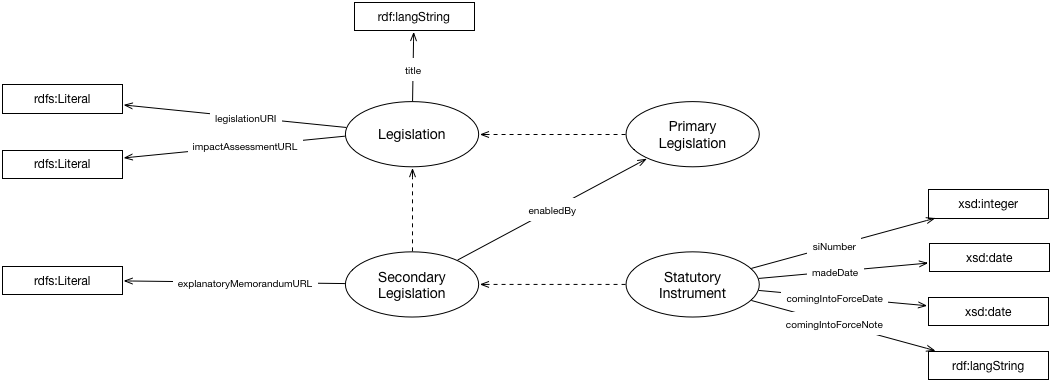
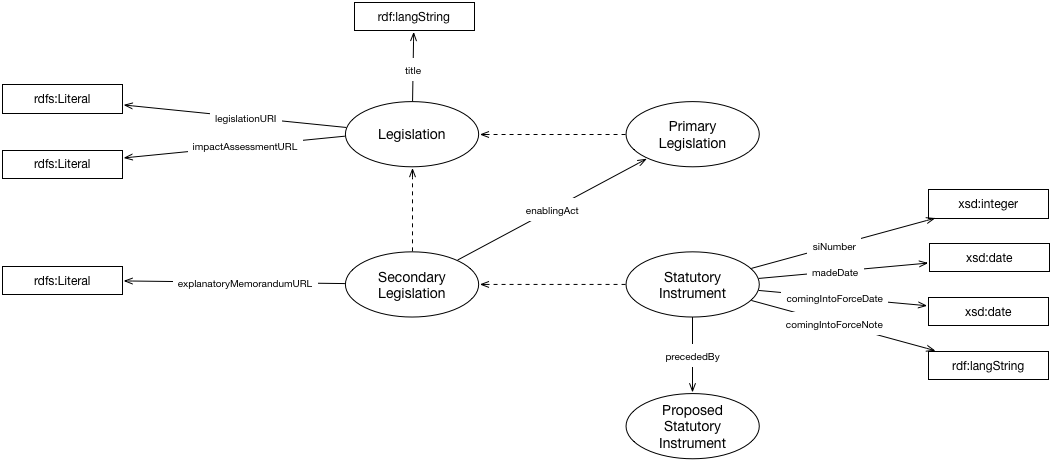
added proposed SIs

diff --git a/legislation/legislation-ontology.html b/legislation/legislation-ontology.html
@@ -5,9 +5,6 @@
 
 
 
-
-	
-	
 	
 
 		<link href="https://ukparliament.github.io/ontologies/assets/css.css" rel="stylesheet" type="text/css" />
@@ -43,9 +40,6 @@
 
 
 
-
-
-
-<div id="classes"><h2>Classes</h2><ul class="hlist"><li><a href="#d4e198" title="http://parliament.uk/ontologies/legislation/Legislation">Legislation</a></li><li><a href="#d4e211" title="http://parliament.uk/ontologies/legislation/PrimaryLegislation">PrimaryLegislation</a></li><li><a href="#d4e224" title="http://parliament.uk/ontologies/legislation/SecondaryLegislation">SecondaryLegislation</a></li><li><a href="#d4e238" title="http://parliament.uk/ontologies/legislation/StatutoryInstrument">StatutoryInstrument</a></li></ul><div id="d4e198" class="entity"><a name="http://parliament.uk/ontologies/legislation/Legislation"></a><h3>Legislation<sup title="class" class="type-c">c</sup><span class="backlink"> back to <a href="#toc">ToC</a> or <a href="#classes">Class ToC</a></span></h3><p><strong>IRI:</strong> http://parliament.uk/ontologies/legislation/Legislation</p><div class="comment"><span class="markdown">An item of legislation. Either primary or secondary.</span></div><dl class="description"><dt>has super-classes</dt><dd><span class="dotted" title="http://parliament.uk/ontologies/legislation/EnablingPower">enabling power</span><sup title="class" class="type-c">c</sup></dd><dt>has sub-classes</dt><dd><a href="#d4e211" title="http://parliament.uk/ontologies/legislation/PrimaryLegislation">PrimaryLegislation</a><sup title="class" class="type-c">c</sup>, <a href="#d4e224" title="http://parliament.uk/ontologies/legislation/SecondaryLegislation">SecondaryLegislation</a><sup title="class" class="type-c">c</sup></dd><dt>is in domain of</dt><dd><a href="#d4e117" title="http://parliament.uk/ontologies/legislation/impactAssessmentURL">impactAssessmentURL</a><sup title="data property" class="type-dp">dp</sup>, <a href="#d4e132" title="http://parliament.uk/ontologies/legislation/legislationURI">legislationURI</a><sup title="data property" class="type-dp">dp</sup>, <a href="#d4e57" title="http://parliament.uk/ontologies/legislation/title">title</a><sup title="object property" class="type-op">op</sup></dd></dl></div><div id="d4e211" class="entity"><a name="http://parliament.uk/ontologies/legislation/PrimaryLegislation"></a><h3>PrimaryLegislation<sup title="class" class="type-c">c</sup><span class="backlink"> back to <a href="#toc">ToC</a> or <a href="#classes">Class ToC</a></span></h3><p><strong>IRI:</strong> http://parliament.uk/ontologies/legislation/PrimaryLegislation</p><div class="comment"><span class="markdown">An item of primary legislation. Types of primary legislation include Acts of Parliament, Church of England Measures, and Orders in Council made under Royal Prerogative. Primary legislation sets out broad outlines and principles, and delegates specific authority to government to make more specific laws in the form of secondary legislation.</span></div><dl class="description"><dt>has super-classes</dt><dd><a href="#d4e198" title="http://parliament.uk/ontologies/legislation/Legislation">Legislation</a><sup title="class" class="type-c">c</sup></dd><dt>is in range of</dt><dd><a href="#d4e42" title="http://parliament.uk/ontologies/legislation/enabledBy">enabledBy</a><sup title="object property" class="type-op">op</sup></dd></dl></div><div id="d4e224" class="entity"><a name="http://parliament.uk/ontologies/legislation/SecondaryLegislation"></a><h3>SecondaryLegislation<sup title="class" class="type-c">c</sup><span class="backlink"> back to <a href="#toc">ToC</a> or <a href="#classes">Class ToC</a></span></h3><p><strong>IRI:</strong> http://parliament.uk/ontologies/legislation/SecondaryLegislation</p><div class="comment"><span class="markdown">An item of secondary legislation. Secondary legislation is also referred to as delegated legislation. The terms are synonymous. 'Delegated' refers to the fact that the powers claimed by the legislation are delegated from an item of primary legislation, i.e. its parent or enabling Act, which proscribes its powers and procedures.</span></div><dl class="description"><dt>has super-classes</dt><dd><a href="#d4e198" title="http://parliament.uk/ontologies/legislation/Legislation">Legislation</a><sup title="class" class="type-c">c</sup></dd><dt>has sub-classes</dt><dd><a href="#d4e238" title="http://parliament.uk/ontologies/legislation/StatutoryInstrument">StatutoryInstrument</a><sup title="class" class="type-c">c</sup></dd><dt>is in domain of</dt><dd><a href="#d4e42" title="http://parliament.uk/ontologies/legislation/enabledBy">enabledBy</a><sup title="object property" class="type-op">op</sup>, <a href="#d4e101" title="http://parliament.uk/ontologies/legislation/explanatoryMemorandumURL">explanatoryMemorandumURL</a><sup title="data property" class="type-dp">dp</sup></dd></dl></div><div id="d4e238" class="entity"><a name="http://parliament.uk/ontologies/legislation/StatutoryInstrument"></a><h3>StatutoryInstrument<sup title="class" class="type-c">c</sup><span class="backlink"> back to <a href="#toc">ToC</a> or <a href="#classes">Class ToC</a></span></h3><p><strong>IRI:</strong> http://parliament.uk/ontologies/legislation/StatutoryInstrument</p><div class="comment"><span class="markdown">A statutory instrument. Statutory instruments are a type of delegated (or secondary) legislation. They can be used to make specific changes to the law under under authority contained in Acts of Parliament.</span></div><dl class="description"><dt>has super-classes</dt><dd><a href="#d4e224" title="http://parliament.uk/ontologies/legislation/SecondaryLegislation">SecondaryLegislation</a><sup title="class" class="type-c">c</sup></dd><dt>is in domain of</dt><dd><a href="#d4e73" title="http://parliament.uk/ontologies/legislation/comingIntoForceDate">comingIntoForceDate</a><sup title="data property" class="type-dp">dp</sup>, <a href="#d4e29" title="http://parliament.uk/ontologies/legislation/comingIntoForceNote">comingIntoForceNote</a><sup title="object property" class="type-op">op</sup>, <a href="#d4e147" title="http://parliament.uk/ontologies/legislation/madeDate">madeDate</a><sup title="data property" class="type-dp">dp</sup>, <a href="#d4e163" title="http://parliament.uk/ontologies/legislation/siNumber">siNumber</a><sup title="data property" class="type-dp">dp</sup></dd></dl></div></div><div id="objectproperties"><h2>Object Properties</h2><ul class="hlist"><li><a href="#d4e29" title="http://parliament.uk/ontologies/legislation/comingIntoForceNote">comingIntoForceNote</a></li><li><a href="#d4e42" title="http://parliament.uk/ontologies/legislation/enabledBy">enabledBy</a></li><li><a href="#d4e57" title="http://parliament.uk/ontologies/legislation/title">title</a></li></ul><div id="d4e29" class="entity"><a name="http://parliament.uk/ontologies/legislation/comingIntoForceNote"></a><h3>comingIntoForceNote<sup title="object property" class="type-op">op</sup><span class="backlink"> back to <a href="#toc">ToC</a> or <a href="#objectproperties">Object Property ToC</a></span></h3><p><strong>IRI:</strong> http://parliament.uk/ontologies/legislation/comingIntoForceNote</p><div class="comment"><span class="markdown">A note to say when the Statutory Instrument came, or is going to come, into force. Sometimes coming into force will be fuzzier than a given date e.g. different schedules within the SI will come into force at different times. In these cases there'll be no comingIntoForceDate but the coming into force details will be given as a comingIntoForceNote.</span></div><div class="description"><dl><dt>has range</dt><dd><span class="dotted" title="http://www.w3.org/1999/02/22-rdf-syntax-ns#langString">lang string</span><sup title="class" class="type-c">c</sup></dd><dt>is also defined as</dt><dd><a href="#d4e88">data property</a></dd></dl></div></div><div id="d4e42" class="entity"><a name="http://parliament.uk/ontologies/legislation/enabledBy"></a><h3>enabledBy<sup title="object property" class="type-op">op</sup><span class="backlink"> back to <a href="#toc">ToC</a> or <a href="#objectproperties">Object Property ToC</a></span></h3><p><strong>IRI:</strong> http://parliament.uk/ontologies/legislation/enabledBy</p><div class="comment"><span class="markdown">Relates a piece of secondary legislation to its parent or enabling Act. Secondary legislation can have one or more enabling Acts. Secondary legislation can delegate powers to make further subordinate legislation. This is known as a sub-delegation or tertiary law. Such law is not usually made by Statutory Instrument, and doesn’t come near Parliament.</span></div><div class="description"><dl><dt>has domain</dt><dd><a href="#d4e224" title="http://parliament.uk/ontologies/legislation/SecondaryLegislation">SecondaryLegislation</a><sup title="class" class="type-c">c</sup></dd><dt>has range</dt><dd><a href="#d4e211" title="http://parliament.uk/ontologies/legislation/PrimaryLegislation">PrimaryLegislation</a><sup title="class" class="type-c">c</sup></dd></dl></div></div><div id="d4e57" class="entity"><a name="http://parliament.uk/ontologies/legislation/title"></a><h3>title<sup title="object property" class="type-op">op</sup><span class="backlink"> back to <a href="#toc">ToC</a> or <a href="#objectproperties">Object Property ToC</a></span></h3><p><strong>IRI:</strong> http://parliament.uk/ontologies/legislation/title</p><div class="comment"><span class="markdown">The title of a piece of legislation.</span></div><div class="description"><dl><dt>has range</dt><dd><span class="dotted" title="http://www.w3.org/1999/02/22-rdf-syntax-ns#langString">lang string</span><sup title="class" class="type-c">c</sup></dd><dt>is also defined as</dt><dd><a href="#d4e178">data property</a></dd></dl></div></div></div><div id="dataproperties"><h2>Data Properties</h2><ul class="hlist"><li><a href="#d4e73" title="http://parliament.uk/ontologies/legislation/comingIntoForceDate">comingIntoForceDate</a></li><li><a href="#d4e88" title="http://parliament.uk/ontologies/legislation/comingIntoForceNote">comingIntoForceNote</a></li><li><a href="#d4e101" title="http://parliament.uk/ontologies/legislation/explanatoryMemorandumURL">explanatoryMemorandumURL</a></li><li><a href="#d4e117" title="http://parliament.uk/ontologies/legislation/impactAssessmentURL">impactAssessmentURL</a></li><li><a href="#d4e132" title="http://parliament.uk/ontologies/legislation/legislationURI">legislationURI</a></li><li><a href="#d4e147" title="http://parliament.uk/ontologies/legislation/madeDate">madeDate</a></li><li><a href="#d4e163" title="http://parliament.uk/ontologies/legislation/siNumber">siNumber</a></li><li><a href="#d4e178" title="http://parliament.uk/ontologies/legislation/title">title</a></li></ul><div id="d4e73" class="entity"><a name="http://parliament.uk/ontologies/legislation/comingIntoForceDate"></a><h3>comingIntoForceDate<sup title="data property" class="type-dp">dp</sup><span class="backlink"> back to <a href="#toc">ToC</a> or <a href="#dataproperties">Data Property ToC</a></span></h3><p><strong>IRI:</strong> http://parliament.uk/ontologies/legislation/comingIntoForceDate</p><div class="comment"><span class="markdown">The date on which the Statutory Instrument came, or is going to come, into force. Where given, this will be the date on which the whole Statutory Instrument comes into force. Sometimes coming into force will be fuzzier than a given date e.g. sometimes different schedules within the SI will come into force at different times. In these cases there'll be no comingIntoForceDate; the coming into force details will be given as a comingIntoForceNote.</span></div><div class="description"><dl><dt>has domain</dt><dd><a href="#d4e238" title="http://parliament.uk/ontologies/legislation/StatutoryInstrument">StatutoryInstrument</a><sup title="class" class="type-c">c</sup></dd><dt>has range</dt><dd><span class="dotted" title="http://www.w3.org/2001/XMLSchema#date">date</span></dd></dl></div></div><div id="d4e88" class="entity"><a name="http://parliament.uk/ontologies/legislation/comingIntoForceNote"></a><h3>comingIntoForceNote<sup title="object property" class="type-op">op</sup><span class="backlink"> back to <a href="#toc">ToC</a> or <a href="#dataproperties">Data Property ToC</a></span></h3><p><strong>IRI:</strong> http://parliament.uk/ontologies/legislation/comingIntoForceNote</p><div class="comment"><span class="markdown">A note to say when the Statutory Instrument came, or is going to come, into force. Sometimes coming into force will be fuzzier than a given date e.g. different schedules within the SI will come into force at different times. In these cases there'll be no comingIntoForceDate but the coming into force details will be given as a comingIntoForceNote.</span></div><div class="description"><dl><dt>has domain</dt><dd><a href="#d4e238" title="http://parliament.uk/ontologies/legislation/StatutoryInstrument">StatutoryInstrument</a><sup title="class" class="type-c">c</sup></dd><dt>is also defined as</dt><dd><a href="#d4e29">object property</a></dd></dl></div></div><div id="d4e101" class="entity"><a name="http://parliament.uk/ontologies/legislation/explanatoryMemorandumURL"></a><h3>explanatoryMemorandumURL<sup title="data property" class="type-dp">dp</sup><span class="backlink"> back to <a href="#toc">ToC</a> or <a href="#dataproperties">Data Property ToC</a></span></h3><p><strong>IRI:</strong> http://parliament.uk/ontologies/legislation/explanatoryMemorandumURL</p><div class="comment"><span class="markdown">The URL of an explanatory memorandum associated with an item of secondary legislation (on legislation.gov.uk).</span></div><div class="description"><dl><dt>has domain</dt><dd><a href="#d4e224" title="http://parliament.uk/ontologies/legislation/SecondaryLegislation">SecondaryLegislation</a><sup title="class" class="type-c">c</sup></dd><dt>has range</dt><dd><span class="dotted" title="http://www.w3.org/2000/01/rdf-schema#Literal">literal</span></dd></dl></div></div><div id="d4e117" class="entity"><a name="http://parliament.uk/ontologies/legislation/impactAssessmentURL"></a><h3>impactAssessmentURL<sup title="data property" class="type-dp">dp</sup><span class="backlink"> back to <a href="#toc">ToC</a> or <a href="#dataproperties">Data Property ToC</a></span></h3><p><strong>IRI:</strong> http://parliament.uk/ontologies/legislation/impactAssessmentURL</p><div class="comment"><span class="markdown">The URL of an impact assessment associated with an item of legislation (on legislation.gov.uk).</span></div><div class="description"><dl><dt>has domain</dt><dd><a href="#d4e198" title="http://parliament.uk/ontologies/legislation/Legislation">Legislation</a><sup title="class" class="type-c">c</sup></dd><dt>has range</dt><dd><span class="dotted" title="http://www.w3.org/2000/01/rdf-schema#Literal">literal</span></dd></dl></div></div><div id="d4e132" class="entity"><a name="http://parliament.uk/ontologies/legislation/legislationURI"></a><h3>legislationURI<sup title="data property" class="type-dp">dp</sup><span class="backlink"> back to <a href="#toc">ToC</a> or <a href="#dataproperties">Data Property ToC</a></span></h3><p><strong>IRI:</strong> http://parliament.uk/ontologies/legislation/legislationURI</p><div class="comment"><span class="markdown">The URI of an item of legislation (on legislation.gov.uk). Note that the URI should take the form of the non-information resource (FRBR work) of the legislation e.g. http://www.legislation.gov.uk/id/ukpga/2018/2</span></div><div class="description"><dl><dt>has domain</dt><dd><a href="#d4e198" title="http://parliament.uk/ontologies/legislation/Legislation">Legislation</a><sup title="class" class="type-c">c</sup></dd><dt>has range</dt><dd><span class="dotted" title="http://www.w3.org/2000/01/rdf-schema#Literal">literal</span></dd></dl></div></div><div id="d4e147" class="entity"><a name="http://parliament.uk/ontologies/legislation/madeDate"></a><h3>madeDate<sup title="data property" class="type-dp">dp</sup><span class="backlink"> back to <a href="#toc">ToC</a> or <a href="#dataproperties">Data Property ToC</a></span></h3><p><strong>IRI:</strong> http://parliament.uk/ontologies/legislation/madeDate</p><div class="comment"><span class="markdown">The date on which the Statutory Instrument was, or is going to be, made. Note that the process of making happens outside Parliament, by the minister responsible for the Statutory Instrument.</span></div><div class="description"><dl><dt>has domain</dt><dd><a href="#d4e238" title="http://parliament.uk/ontologies/legislation/StatutoryInstrument">StatutoryInstrument</a><sup title="class" class="type-c">c</sup></dd><dt>has range</dt><dd><span class="dotted" title="http://www.w3.org/2001/XMLSchema#date">date</span></dd></dl></div></div><div id="d4e163" class="entity"><a name="http://parliament.uk/ontologies/legislation/siNumber"></a><h3>siNumber<sup title="data property" class="type-dp">dp</sup><span class="backlink"> back to <a href="#toc">ToC</a> or <a href="#dataproperties">Data Property ToC</a></span></h3><p><strong>IRI:</strong> http://parliament.uk/ontologies/legislation/siNumber</p><div class="comment"><span class="markdown">The number of the Statutory Instrument. The bibliographic citation for Statutory Instruments is concatenated from an abbreviation for the document type, year of laying and the SI number e.g. SI 2018/9999.</span></div><div class="description"><dl><dt>has domain</dt><dd><a href="#d4e238" title="http://parliament.uk/ontologies/legislation/StatutoryInstrument">StatutoryInstrument</a><sup title="class" class="type-c">c</sup></dd><dt>has range</dt><dd><span class="dotted" title="http://www.w3.org/2001/XMLSchema#integer">integer</span></dd></dl></div></div><div id="d4e178" class="entity"><a name="http://parliament.uk/ontologies/legislation/title"></a><h3>title<sup title="object property" class="type-op">op</sup><span class="backlink"> back to <a href="#toc">ToC</a> or <a href="#dataproperties">Data Property ToC</a></span></h3><p><strong>IRI:</strong> http://parliament.uk/ontologies/legislation/title</p><div class="comment"><span class="markdown">The title of a piece of legislation.</span></div><div class="description"><dl><dt>has domain</dt><dd><a href="#d4e198" title="http://parliament.uk/ontologies/legislation/Legislation">Legislation</a><sup title="class" class="type-c">c</sup></dd><dt>is also defined as</dt><dd><a href="#d4e57">object property</a></dd></dl></div></div></div><div id="namespacedeclarations"><h2>Namespace Declarations <span class="backlink"> back to <a href="#toc">ToC</a></span></h2><dl><dt><em>default namespace</em></dt><dd>http://parliament.uk/ontologies/legislation/</dd><dt>owl</dt><dd>http://www.w3.org/2002/07/owl#</dd><dt>rdf</dt><dd>http://www.w3.org/1999/02/22-rdf-syntax-ns#</dd><dt>rdfs</dt><dd>http://www.w3.org/2000/01/rdf-schema#</dd><dt>terms</dt><dd>http://purl.org/dc/terms/</dd><dt>xsd</dt><dd>http://www.w3.org/2001/XMLSchema#</dd></dl></div><p class="endnote">This HTML document was obtained by processing the OWL ontology source code through <a href="http://www.essepuntato.it/lode">LODE</a>, <em>Live OWL Documentation Environment</em>, developed by <a href="http://www.essepuntato.it">Silvio Peroni</a>.</p></body></html>
+<div id="classes"><h2>Classes</h2><ul class="hlist"><li><a href="#d4e213" title="http://parliament.uk/ontologies/legislation/Legislation">Legislation</a></li><li><a href="#d4e226" title="http://parliament.uk/ontologies/legislation/PrimaryLegislation">PrimaryLegislation</a></li><li><a href="#d4e240" title="http://parliament.uk/ontologies/legislation/ProposedStatutoryInstrument">ProposedStatutoryInstrument</a></li><li><a href="#d4e251" title="http://parliament.uk/ontologies/legislation/SecondaryLegislation">SecondaryLegislation</a></li><li><a href="#d4e264" title="http://parliament.uk/ontologies/legislation/StatutoryInstrument">StatutoryInstrument</a></li></ul><div id="d4e213" class="entity"><a name="http://parliament.uk/ontologies/legislation/Legislation"></a><h3>Legislation<sup title="class" class="type-c">c</sup><span class="backlink"> back to <a href="#toc">ToC</a> or <a href="#classes">Class ToC</a></span></h3><p><strong>IRI:</strong> http://parliament.uk/ontologies/legislation/Legislation</p><div class="comment"><span class="markdown">An item of legislation. Either primary or secondary.</span></div><dl class="description"><dt>has super-classes</dt><dd><span class="dotted" title="http://parliament.uk/ontologies/legislation/EnablingPower">enabling power</span><sup title="class" class="type-c">c</sup></dd><dt>has sub-classes</dt><dd><a href="#d4e226" title="http://parliament.uk/ontologies/legislation/PrimaryLegislation">PrimaryLegislation</a><sup title="class" class="type-c">c</sup>, <a href="#d4e251" title="http://parliament.uk/ontologies/legislation/SecondaryLegislation">SecondaryLegislation</a><sup title="class" class="type-c">c</sup></dd><dt>is in domain of</dt><dd><a href="#d4e132" title="http://parliament.uk/ontologies/legislation/impactAssessmentURL">impactAssessmentURL</a><sup title="data property" class="type-dp">dp</sup>, <a href="#d4e147" title="http://parliament.uk/ontologies/legislation/legislationURI">legislationURI</a><sup title="data property" class="type-dp">dp</sup>, <a href="#d4e73" title="http://parliament.uk/ontologies/legislation/title">title</a><sup title="object property" class="type-op">op</sup></dd></dl></div><div id="d4e226" class="entity"><a name="http://parliament.uk/ontologies/legislation/PrimaryLegislation"></a><h3>PrimaryLegislation<sup title="class" class="type-c">c</sup><span class="backlink"> back to <a href="#toc">ToC</a> or <a href="#classes">Class ToC</a></span></h3><p><strong>IRI:</strong> http://parliament.uk/ontologies/legislation/PrimaryLegislation</p><div class="comment"><span class="markdown">An item of primary legislation. Types of primary legislation include Acts of Parliament, Church of England Measures, and Orders in Council made under Royal Prerogative. Primary legislation sets out broad outlines and principles, and delegates specific authority to government to make more specific laws in the form of secondary legislation.</span></div><dl class="description"><dt>has super-classes</dt><dd><a href="#d4e213" title="http://parliament.uk/ontologies/legislation/Legislation">Legislation</a><sup title="class" class="type-c">c</sup></dd><dt>is in range of</dt><dd><a href="#d4e42" title="http://parliament.uk/ontologies/legislation/enablingAct">enablingAct</a><sup title="object property" class="type-op">op</sup></dd></dl></div><div id="d4e240" class="entity"><a name="http://parliament.uk/ontologies/legislation/ProposedStatutoryInstrument"></a><h3>ProposedStatutoryInstrument<sup title="class" class="type-c">c</sup><span class="backlink"> back to <a href="#toc">ToC</a> or <a href="#classes">Class ToC</a></span></h3><p><strong>IRI:</strong> http://parliament.uk/ontologies/legislation/ProposedStatutoryInstrument</p><div class="comment"><span class="markdown">All regulations proposed to be made under the powers in clauses 7, 8 or 9 of the European Union (Withdrawal) Bill, which Ministers consider need to be made under the negative procedure, will be laid before both Houses as proposed statutory instruments. Sifting committees in both Houses may recommend a change to the affirmative procedure. A proposed statutory instrument may lead to a statutory instrument being laid, or multiple, or none.</span></div><dl class="description"><dt>is in range of</dt><dd><a href="#d4e57" title="http://parliament.uk/ontologies/legislation/precededBy">precededBy</a><sup title="object property" class="type-op">op</sup></dd></dl></div><div id="d4e251" class="entity"><a name="http://parliament.uk/ontologies/legislation/SecondaryLegislation"></a><h3>SecondaryLegislation<sup title="class" class="type-c">c</sup><span class="backlink"> back to <a href="#toc">ToC</a> or <a href="#classes">Class ToC</a></span></h3><p><strong>IRI:</strong> http://parliament.uk/ontologies/legislation/SecondaryLegislation</p><div class="comment"><span class="markdown">An item of secondary legislation. Secondary legislation is also referred to as delegated legislation. The terms are synonymous. 'Delegated' refers to the fact that the powers claimed by the legislation are delegated from an item of primary legislation, i.e. its parent or enabling Act, which proscribes its powers and procedures.</span></div><dl class="description"><dt>has super-classes</dt><dd><a href="#d4e213" title="http://parliament.uk/ontologies/legislation/Legislation">Legislation</a><sup title="class" class="type-c">c</sup></dd><dt>has sub-classes</dt><dd><a href="#d4e264" title="http://parliament.uk/ontologies/legislation/StatutoryInstrument">StatutoryInstrument</a><sup title="class" class="type-c">c</sup></dd><dt>is in domain of</dt><dd><a href="#d4e42" title="http://parliament.uk/ontologies/legislation/enablingAct">enablingAct</a><sup title="object property" class="type-op">op</sup>, <a href="#d4e117" title="http://parliament.uk/ontologies/legislation/explanatoryMemorandumURL">explanatoryMemorandumURL</a><sup title="data property" class="type-dp">dp</sup></dd></dl></div><div id="d4e264" class="entity"><a name="http://parliament.uk/ontologies/legislation/StatutoryInstrument"></a><h3>StatutoryInstrument<sup title="class" class="type-c">c</sup><span class="backlink"> back to <a href="#toc">ToC</a> or <a href="#classes">Class ToC</a></span></h3><p><strong>IRI:</strong> http://parliament.uk/ontologies/legislation/StatutoryInstrument</p><div class="comment"><span class="markdown">A statutory instrument. Statutory instruments are a type of delegated (or secondary) legislation. They can be used to make specific changes to the law under under authority contained in Acts of Parliament.</span></div><dl class="description"><dt>has super-classes</dt><dd><a href="#d4e251" title="http://parliament.uk/ontologies/legislation/SecondaryLegislation">SecondaryLegislation</a><sup title="class" class="type-c">c</sup></dd><dt>is in domain of</dt><dd><a href="#d4e88" title="http://parliament.uk/ontologies/legislation/comingIntoForceDate">comingIntoForceDate</a><sup title="data property" class="type-dp">dp</sup>, <a href="#d4e29" title="http://parliament.uk/ontologies/legislation/comingIntoForceNote">comingIntoForceNote</a><sup title="object property" class="type-op">op</sup>, <a href="#d4e163" title="http://parliament.uk/ontologies/legislation/madeDate">madeDate</a><sup title="data property" class="type-dp">dp</sup>, <a href="#d4e57" title="http://parliament.uk/ontologies/legislation/precededBy">precededBy</a><sup title="object property" class="type-op">op</sup>, <a href="#d4e178" title="http://parliament.uk/ontologies/legislation/siNumber">siNumber</a><sup title="data property" class="type-dp">dp</sup></dd></dl></div></div><div id="objectproperties"><h2>Object Properties</h2><ul class="hlist"><li><a href="#d4e29" title="http://parliament.uk/ontologies/legislation/comingIntoForceNote">comingIntoForceNote</a></li><li><a href="#d4e42" title="http://parliament.uk/ontologies/legislation/enablingAct">enablingAct</a></li><li><a href="#d4e57" title="http://parliament.uk/ontologies/legislation/precededBy">precededBy</a></li><li><a href="#d4e73" title="http://parliament.uk/ontologies/legislation/title">title</a></li></ul><div id="d4e29" class="entity"><a name="http://parliament.uk/ontologies/legislation/comingIntoForceNote"></a><h3>comingIntoForceNote<sup title="object property" class="type-op">op</sup><span class="backlink"> back to <a href="#toc">ToC</a> or <a href="#objectproperties">Object Property ToC</a></span></h3><p><strong>IRI:</strong> http://parliament.uk/ontologies/legislation/comingIntoForceNote</p><div class="comment"><span class="markdown">A note to say when the Statutory Instrument came, or is going to come, into force. Sometimes coming into force will be fuzzier than a given date e.g. different schedules within the SI will come into force at different times. In these cases there'll be no comingIntoForceDate but the coming into force details will be given as a comingIntoForceNote.</span></div><div class="description"><dl><dt>has range</dt><dd><span class="dotted" title="http://www.w3.org/1999/02/22-rdf-syntax-ns#langString">lang string</span><sup title="class" class="type-c">c</sup></dd><dt>is also defined as</dt><dd><a href="#d4e103">data property</a></dd></dl></div></div><div id="d4e42" class="entity"><a name="http://parliament.uk/ontologies/legislation/enablingAct"></a><h3>enablingAct<sup title="object property" class="type-op">op</sup><span class="backlink"> back to <a href="#toc">ToC</a> or <a href="#objectproperties">Object Property ToC</a></span></h3><p><strong>IRI:</strong> http://parliament.uk/ontologies/legislation/enablingAct</p><div class="comment"><span class="markdown">Relates a piece of secondary legislation to its parent or enabling Act. Secondary legislation can have one or more enabling Acts. Secondary legislation can delegate powers to make further subordinate legislation. This is known as a sub-delegation or tertiary law. Such law is not usually made by statutory instrument, and doesn’t come near Parliament.</span></div><div class="description"><dl><dt>has domain</dt><dd><a href="#d4e251" title="http://parliament.uk/ontologies/legislation/SecondaryLegislation">SecondaryLegislation</a><sup title="class" class="type-c">c</sup></dd><dt>has range</dt><dd><a href="#d4e226" title="http://parliament.uk/ontologies/legislation/PrimaryLegislation">PrimaryLegislation</a><sup title="class" class="type-c">c</sup></dd></dl></div></div><div id="d4e57" class="entity"><a name="http://parliament.uk/ontologies/legislation/precededBy"></a><h3>precededBy<sup title="object property" class="type-op">op</sup><span class="backlink"> back to <a href="#toc">ToC</a> or <a href="#objectproperties">Object Property ToC</a></span></h3><p><strong>IRI:</strong> http://parliament.uk/ontologies/legislation/precededBy</p><div class="comment"><span class="markdown">Relates a statutory instrument to any proposed statutory instruments that preceded it.</span></div><div class="description"><dl><dt>has domain</dt><dd><a href="#d4e264" title="http://parliament.uk/ontologies/legislation/StatutoryInstrument">StatutoryInstrument</a><sup title="class" class="type-c">c</sup></dd><dt>has range</dt><dd><a href="#d4e240" title="http://parliament.uk/ontologies/legislation/ProposedStatutoryInstrument">ProposedStatutoryInstrument</a><sup title="class" class="type-c">c</sup></dd></dl></div></div><div id="d4e73" class="entity"><a name="http://parliament.uk/ontologies/legislation/title"></a><h3>title<sup title="object property" class="type-op">op</sup><span class="backlink"> back to <a href="#toc">ToC</a> or <a href="#objectproperties">Object Property ToC</a></span></h3><p><strong>IRI:</strong> http://parliament.uk/ontologies/legislation/title</p><div class="comment"><span class="markdown">The title of a piece of legislation.</span></div><div class="description"><dl><dt>has range</dt><dd><span class="dotted" title="http://www.w3.org/1999/02/22-rdf-syntax-ns#langString">lang string</span><sup title="class" class="type-c">c</sup></dd><dt>is also defined as</dt><dd><a href="#d4e193">data property</a></dd></dl></div></div></div><div id="dataproperties"><h2>Data Properties</h2><ul class="hlist"><li><a href="#d4e88" title="http://parliament.uk/ontologies/legislation/comingIntoForceDate">comingIntoForceDate</a></li><li><a href="#d4e103" title="http://parliament.uk/ontologies/legislation/comingIntoForceNote">comingIntoForceNote</a></li><li><a href="#d4e117" title="http://parliament.uk/ontologies/legislation/explanatoryMemorandumURL">explanatoryMemorandumURL</a></li><li><a href="#d4e132" title="http://parliament.uk/ontologies/legislation/impactAssessmentURL">impactAssessmentURL</a></li><li><a href="#d4e147" title="http://parliament.uk/ontologies/legislation/legislationURI">legislationURI</a></li><li><a href="#d4e163" title="http://parliament.uk/ontologies/legislation/madeDate">madeDate</a></li><li><a href="#d4e178" title="http://parliament.uk/ontologies/legislation/siNumber">siNumber</a></li><li><a href="#d4e193" title="http://parliament.uk/ontologies/legislation/title">title</a></li></ul><div id="d4e88" class="entity"><a name="http://parliament.uk/ontologies/legislation/comingIntoForceDate"></a><h3>comingIntoForceDate<sup title="data property" class="type-dp">dp</sup><span class="backlink"> back to <a href="#toc">ToC</a> or <a href="#dataproperties">Data Property ToC</a></span></h3><p><strong>IRI:</strong> http://parliament.uk/ontologies/legislation/comingIntoForceDate</p><div class="comment"><span class="markdown">The date on which the Statutory Instrument came, or is going to come, into force. Where given, this will be the date on which the whole Statutory Instrument comes into force. Sometimes coming into force will be fuzzier than a given date e.g. sometimes different schedules within the SI will come into force at different times. In these cases there'll be no comingIntoForceDate; the coming into force details will be given as a comingIntoForceNote.</span></div><div class="description"><dl><dt>has domain</dt><dd><a href="#d4e264" title="http://parliament.uk/ontologies/legislation/StatutoryInstrument">StatutoryInstrument</a><sup title="class" class="type-c">c</sup></dd><dt>has range</dt><dd><span class="dotted" title="http://www.w3.org/2001/XMLSchema#date">date</span></dd></dl></div></div><div id="d4e103" class="entity"><a name="http://parliament.uk/ontologies/legislation/comingIntoForceNote"></a><h3>comingIntoForceNote<sup title="object property" class="type-op">op</sup><span class="backlink"> back to <a href="#toc">ToC</a> or <a href="#dataproperties">Data Property ToC</a></span></h3><p><strong>IRI:</strong> http://parliament.uk/ontologies/legislation/comingIntoForceNote</p><div class="comment"><span class="markdown">A note to say when the Statutory Instrument came, or is going to come, into force. Sometimes coming into force will be fuzzier than a given date e.g. different schedules within the SI will come into force at different times. In these cases there'll be no comingIntoForceDate but the coming into force details will be given as a comingIntoForceNote.</span></div><div class="description"><dl><dt>has domain</dt><dd><a href="#d4e264" title="http://parliament.uk/ontologies/legislation/StatutoryInstrument">StatutoryInstrument</a><sup title="class" class="type-c">c</sup></dd><dt>is also defined as</dt><dd><a href="#d4e29">object property</a></dd></dl></div></div><div id="d4e117" class="entity"><a name="http://parliament.uk/ontologies/legislation/explanatoryMemorandumURL"></a><h3>explanatoryMemorandumURL<sup title="data property" class="type-dp">dp</sup><span class="backlink"> back to <a href="#toc">ToC</a> or <a href="#dataproperties">Data Property ToC</a></span></h3><p><strong>IRI:</strong> http://parliament.uk/ontologies/legislation/explanatoryMemorandumURL</p><div class="comment"><span class="markdown">The URL of an explanatory memorandum associated with an item of secondary legislation (on legislation.gov.uk).</span></div><div class="description"><dl><dt>has domain</dt><dd><a href="#d4e251" title="http://parliament.uk/ontologies/legislation/SecondaryLegislation">SecondaryLegislation</a><sup title="class" class="type-c">c</sup></dd><dt>has range</dt><dd><span class="dotted" title="http://www.w3.org/2000/01/rdf-schema#Literal">literal</span></dd></dl></div></div><div id="d4e132" class="entity"><a name="http://parliament.uk/ontologies/legislation/impactAssessmentURL"></a><h3>impactAssessmentURL<sup title="data property" class="type-dp">dp</sup><span class="backlink"> back to <a href="#toc">ToC</a> or <a href="#dataproperties">Data Property ToC</a></span></h3><p><strong>IRI:</strong> http://parliament.uk/ontologies/legislation/impactAssessmentURL</p><div class="comment"><span class="markdown">The URL of an impact assessment associated with an item of legislation (on legislation.gov.uk).</span></div><div class="description"><dl><dt>has domain</dt><dd><a href="#d4e213" title="http://parliament.uk/ontologies/legislation/Legislation">Legislation</a><sup title="class" class="type-c">c</sup></dd><dt>has range</dt><dd><span class="dotted" title="http://www.w3.org/2000/01/rdf-schema#Literal">literal</span></dd></dl></div></div><div id="d4e147" class="entity"><a name="http://parliament.uk/ontologies/legislation/legislationURI"></a><h3>legislationURI<sup title="data property" class="type-dp">dp</sup><span class="backlink"> back to <a href="#toc">ToC</a> or <a href="#dataproperties">Data Property ToC</a></span></h3><p><strong>IRI:</strong> http://parliament.uk/ontologies/legislation/legislationURI</p><div class="comment"><span class="markdown">The URI of an item of legislation (on legislation.gov.uk). Note that the URI should take the form of the non-information resource (FRBR work) of the legislation e.g. http://www.legislation.gov.uk/id/ukpga/2018/2</span></div><div class="description"><dl><dt>has domain</dt><dd><a href="#d4e213" title="http://parliament.uk/ontologies/legislation/Legislation">Legislation</a><sup title="class" class="type-c">c</sup></dd><dt>has range</dt><dd><span class="dotted" title="http://www.w3.org/2000/01/rdf-schema#Literal">literal</span></dd></dl></div></div><div id="d4e163" class="entity"><a name="http://parliament.uk/ontologies/legislation/madeDate"></a><h3>madeDate<sup title="data property" class="type-dp">dp</sup><span class="backlink"> back to <a href="#toc">ToC</a> or <a href="#dataproperties">Data Property ToC</a></span></h3><p><strong>IRI:</strong> http://parliament.uk/ontologies/legislation/madeDate</p><div class="comment"><span class="markdown">The date on which the Statutory Instrument was, or is going to be, made. Note that the process of making happens outside Parliament, by the minister responsible for the Statutory Instrument.</span></div><div class="description"><dl><dt>has domain</dt><dd><a href="#d4e264" title="http://parliament.uk/ontologies/legislation/StatutoryInstrument">StatutoryInstrument</a><sup title="class" class="type-c">c</sup></dd><dt>has range</dt><dd><span class="dotted" title="http://www.w3.org/2001/XMLSchema#date">date</span></dd></dl></div></div><div id="d4e178" class="entity"><a name="http://parliament.uk/ontologies/legislation/siNumber"></a><h3>siNumber<sup title="data property" class="type-dp">dp</sup><span class="backlink"> back to <a href="#toc">ToC</a> or <a href="#dataproperties">Data Property ToC</a></span></h3><p><strong>IRI:</strong> http://parliament.uk/ontologies/legislation/siNumber</p><div class="comment"><span class="markdown">The number of the Statutory Instrument. The bibliographic citation for Statutory Instruments is concatenated from an abbreviation for the document type, year of laying and the SI number e.g. SI 2018/9999.</span></div><div class="description"><dl><dt>has domain</dt><dd><a href="#d4e264" title="http://parliament.uk/ontologies/legislation/StatutoryInstrument">StatutoryInstrument</a><sup title="class" class="type-c">c</sup></dd><dt>has range</dt><dd><span class="dotted" title="http://www.w3.org/2001/XMLSchema#integer">integer</span></dd></dl></div></div><div id="d4e193" class="entity"><a name="http://parliament.uk/ontologies/legislation/title"></a><h3>title<sup title="object property" class="type-op">op</sup><span class="backlink"> back to <a href="#toc">ToC</a> or <a href="#dataproperties">Data Property ToC</a></span></h3><p><strong>IRI:</strong> http://parliament.uk/ontologies/legislation/title</p><div class="comment"><span class="markdown">The title of a piece of legislation.</span></div><div class="description"><dl><dt>has domain</dt><dd><a href="#d4e213" title="http://parliament.uk/ontologies/legislation/Legislation">Legislation</a><sup title="class" class="type-c">c</sup></dd><dt>is also defined as</dt><dd><a href="#d4e73">object property</a></dd></dl></div></div></div><div id="namespacedeclarations"><h2>Namespace Declarations <span class="backlink"> back to <a href="#toc">ToC</a></span></h2><dl><dt><em>default namespace</em></dt><dd>http://parliament.uk/ontologies/legislation/</dd><dt>owl</dt><dd>http://www.w3.org/2002/07/owl#</dd><dt>rdf</dt><dd>http://www.w3.org/1999/02/22-rdf-syntax-ns#</dd><dt>rdfs</dt><dd>http://www.w3.org/2000/01/rdf-schema#</dd><dt>terms</dt><dd>http://purl.org/dc/terms/</dd><dt>xsd</dt><dd>http://www.w3.org/2001/XMLSchema#</dd></dl></div><p class="endnote">This HTML document was obtained by processing the OWL ontology source code through <a href="http://www.essepuntato.it/lode">LODE</a>, <em>Live OWL Documentation Environment</em>, developed by <a href="http://www.essepuntato.it">Silvio Peroni</a>.</p></body></html>
 
 
